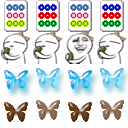
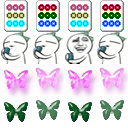
烘焙色调到PNG(兼容iOS Safari): 8只怪物hue直接画进素材, 移除filter配置, version 2.10.23

diff --git a/project/maps.js b/project/maps.js
@@ -250,9 +250,9 @@ var maps_90f36752_8815_4be8_b32b_d7fad1d0542e =
 
 	"406": {"cls":"enemys","id":"e1","name":"小小玉","faceIds":{"down":"e1"}},
 
-	"407": {"cls":"enemys","id":"e49","name":"幽幽蝠","faceIds":{"down":"e49"},"filter":{"hue":150}},
+	"407": {"cls":"enemys","id":"e49","name":"幽幽蝠","faceIds":{"down":"e49"}},
 
-	"408": {"cls":"enemys","id":"e322","name":"冥界守卫","faceIds":{"left":"e322"},"filter":{"hue":210}},
+	"408": {"cls":"enemys","id":"e322","name":"冥界守卫","faceIds":{"left":"e322"}},
 
 	"409": {"cls":"enemys","id":"e304","name":"土魔偶","faceIds":{"down":"e304"}},
 
@@ -268,17 +268,17 @@ var maps_90f36752_8815_4be8_b32b_d7fad1d0542e =
 
 	"415": {"cls":"enemys","id":"e146","name":"白菫影","faceIds":{"down":"e146"}},
 
-	"416": {"cls":"enemys","id":"e197","name":"樱吹玉","faceIds":{"left":"e197"},"filter":{"hue":300}},
+	"416": {"cls":"enemys","id":"e197","name":"樱吹玉","faceIds":{"left":"e197"}},
 
 	"417": {"cls":"enemys","id":"e161","name":"古付丧鬼","faceIds":{"right":"e161"}},
 
-	"418": {"cls":"enemys","id":"e438","name":"返魂蝶","faceIds":{"right":"e438"},"filter":{"hue":100}},
+	"418": {"cls":"enemys","id":"e438","name":"返魂蝶","faceIds":{"right":"e438"}},
 
 	"419": {"cls":"enemys","id":"e222","name":"月光瀑","faceIds":{"down":"e222"}},
 
 	"420": {"cls":"enemys","id":"e66","name":"緋朱蔦","faceIds":{"right":"e66"}},
 
-	"421": {"cls":"enemys","id":"e46","name":"琥珀泪","faceIds":{"right":"e46"},"filter":{"hue":90}},
+	"421": {"cls":"enemys","id":"e46","name":"琥珀泪","faceIds":{"right":"e46"}},
 
 	"422": {"cls":"enemys","id":"e439","name":"土灵使","faceIds":{"right":"e439"}},
 
@@ -288,7 +288,7 @@ var maps_90f36752_8815_4be8_b32b_d7fad1d0542e =
 
 	"425": {"cls":"enemys","id":"e85","name":"暗法师","faceIds":{"left":"e85"}},
 
-	"426": {"cls":"enemys","id":"e159","name":"怨灵华","faceIds":{"left":"e159"},"filter":{"hue":300}},
+	"426": {"cls":"enemys","id":"e159","name":"怨灵华","faceIds":{"left":"e159"}},
 
 	"427": {"cls":"enemys","id":"e163","name":"饿血华","faceIds":{"down":"e163"}},
 
@@ -302,9 +302,9 @@ var maps_90f36752_8815_4be8_b32b_d7fad1d0542e =
 
 	"432": {"cls":"enemys","id":"e190","name":"霜夜射手","faceIds":{"up":"e190"}},
 
-	"433": {"cls":"enemys","id":"e443","name":"古战场茗","faceIds":{"down":"e443"},"filter":{"hue":150}},
+	"433": {"cls":"enemys","id":"e443","name":"古战场茗","faceIds":{"down":"e443"}},
 
-	"434": {"cls":"enemys","id":"e449","name":"冥府花","faceIds":{"left":"e449"},"filter":{"hue":50}},
+	"434": {"cls":"enemys","id":"e449","name":"冥府花","faceIds":{"left":"e449"}},
 
 	"350": {"cls":"animates","id":"arrDown","name":"下楼","canPass":true},
 	"351": {"cls":"animates","id":"arrLeft","name":"下楼","canPass":true},

diff --git a/main.js b/main.js
@@ -2,7 +2,7 @@
 function main() {
     //------------------------ 用户修改内容 ------------------------//
 
-    this.version = '2.10.22'; // 游戏版本号；如果更改了游戏内容建议修改此version以免造成缓存问题。
+    this.version = '2.10.23'; // 游戏版本号；如果更改了游戏内容建议修改此version以免造成缓存问题。
 
     this.useCompress = false; // 是否使用压缩文件
     // 当你即将发布你的塔时，请使用“JS代码压缩工具”将所有js代码进行压缩，然后将这里的useCompress改为true。
